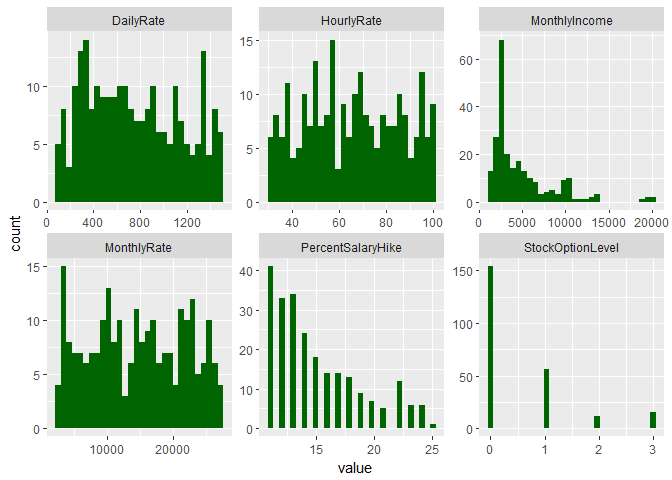
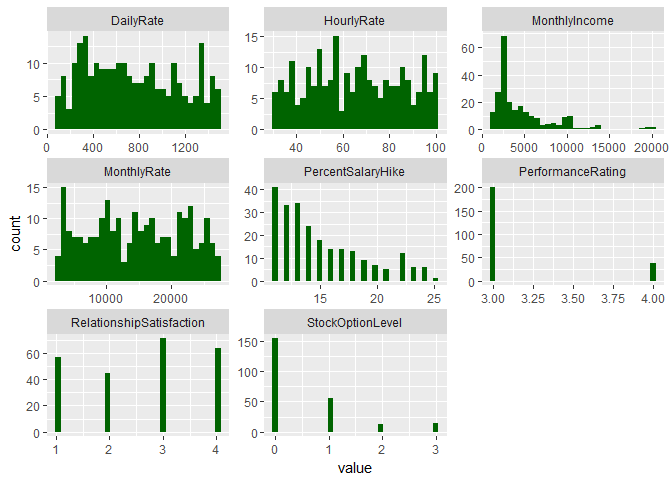
Add Univariate by stress factor

diff --git a/CaseStudy2.md b/CaseStudy2.md
@@ -73,11 +73,11 @@ case_data[factor_cols] <- lapply(case_data[factor_cols], factor)
 attrition_data <- case_data[which(case_data$Attrition == 'Yes'), ]
 ```
 
-Univariate 1 - attrition by looking with salary
------------------------------------------------
+Univariate 1 - attrition by salary and Ratings
+----------------------------------------------
 
 ``` r
-uni_1_cols <- c("HourlyRate", "DailyRate", "MonthlyIncome", "MonthlyRate", "PercentSalaryHike", "StockOptionLevel")
+uni_1_cols <- c("HourlyRate", "DailyRate", "MonthlyIncome", "MonthlyRate", "PercentSalaryHike", "StockOptionLevel", "PerformanceRating", "RelationshipSatisfaction")
 attrition_data[uni_1_cols] %>%
  gather() %>%     
  ggplot(aes(x = value)) +                     
@@ -89,12 +89,12 @@ attrition_data[uni_1_cols] %>%
 
 ![](CaseStudy2_files/figure-markdown_github/unnamed-chunk-2-1.png)
 
-Univariate 2 - attrition by looking with job functions
-------------------------------------------------------
+Univariate 2 - attrition by job functions
+-----------------------------------------
 
 ``` r
-uni_1_cols <- c("Department", "JobRole", "OverTime", "BusinessTravel", "EnvironmentSatisfaction")
-attrition_data[uni_1_cols] %>%
+uni_2_cols <- c("Department", "JobRole", "BusinessTravel", "EnvironmentSatisfaction", "JobInvolvement", "JobLevel")
+attrition_data[uni_2_cols] %>%
  gather() %>%     
  ggplot(aes(x = value)) +                     
  facet_wrap(~ key, scales = "free") +  
@@ -106,6 +106,42 @@ attrition_data[uni_1_cols] %>%
     they will be dropped
 
 ![](CaseStudy2_files/figure-markdown_github/unnamed-chunk-3-1.png)
+
+Univariate 3 - attrition by employee background
+-----------------------------------------------
+
+``` r
+uni_3_cols <- c("Education", "EducationField", "NumCompaniesWorked", "TotalWorkingYears", "YearsAtCompany")
+attrition_data[uni_3_cols] %>%
+ gather() %>%     
+ ggplot(aes(x = value)) +                     
+ facet_wrap(~ key, scales = "free") +  
+ geom_bar(fill="purple") +
+ theme(axis.text.x = element_text(size  = 10, angle = 45,hjust = 1,vjust = 1))
+```
+
+    Warning: attributes are not identical across measure variables;
+    they will be dropped
+
+![](CaseStudy2_files/figure-markdown_github/unnamed-chunk-4-1.png)
+
+Univariate 4 - attrition by stress factors
+------------------------------------------
+
+``` r
+uni_4_cols <- c("DistanceFromHome", "WorkLifeBalance", "RelationshipSatisfaction", "OverTime", "TrainingTimesLastYear")
+attrition_data[uni_4_cols] %>%
+ gather() %>%     
+ ggplot(aes(x = value)) +                     
+ facet_wrap(~ key, scales = "free") +  
+ geom_bar(fill="blue") +
+ theme(axis.text.x = element_text(size  = 10, angle = 45,hjust = 1,vjust = 1))
+```
+
+    Warning: attributes are not identical across measure variables;
+    they will be dropped
+
+![](CaseStudy2_files/figure-markdown_github/unnamed-chunk-5-1.png)
 
 Quick glance at attrition data by department
 --------------------------------------------
@@ -134,7 +170,7 @@ ggplot(att_by_dept, aes(x = reorder(Department, -Freq), y=Freq, fill=Attrition))
     ylab('Attrition')
 ```
 
-![](CaseStudy2_files/figure-markdown_github/unnamed-chunk-5-1.png)
+![](CaseStudy2_files/figure-markdown_github/unnamed-chunk-7-1.png)
 
 Univariate 2 - attrition with Age and Years at Company
 ------------------------------------------------------
@@ -143,7 +179,7 @@ Univariate 2 - attrition with Age and Years at Company
 featurePlot(x = case_data[, c('Age', 'YearsAtCompany')], y = case_data$Attrition, plot = "density", auto.key = list(columns = 2))
 ```
 
-![](CaseStudy2_files/figure-markdown_github/unnamed-chunk-6-1.png)
+![](CaseStudy2_files/figure-markdown_github/unnamed-chunk-8-1.png)
 
 Univariate 3 - attrition by job role
 ------------------------------------
@@ -157,7 +193,7 @@ ggplot(case_data, aes(x = JobRole, fill = Attrition)) +
   coord_flip()
 ```
 
-![](CaseStudy2_files/figure-markdown_github/unnamed-chunk-7-1.png)
+![](CaseStudy2_files/figure-markdown_github/unnamed-chunk-9-1.png)
 
 ``` r
 ggplot(case_data, aes(x = JobRole)) + 
@@ -167,7 +203,7 @@ ggplot(case_data, aes(x = JobRole)) +
   coord_flip()
 ```
 
-![](CaseStudy2_files/figure-markdown_github/unnamed-chunk-7-2.png)
+![](CaseStudy2_files/figure-markdown_github/unnamed-chunk-9-2.png)
 
 Univariate 4 - attrition by education field
 -------------------------------------------
@@ -178,7 +214,7 @@ ggplot(case_data, aes(x = EducationField, ..count..)) +
   theme(axis.text.x = element_text(size  = 10, angle = 45,hjust = 1,vjust = 1))
 ```
 
-![](CaseStudy2_files/figure-markdown_github/unnamed-chunk-8-1.png)
+![](CaseStudy2_files/figure-markdown_github/unnamed-chunk-10-1.png)
 
 Summary
 -------
